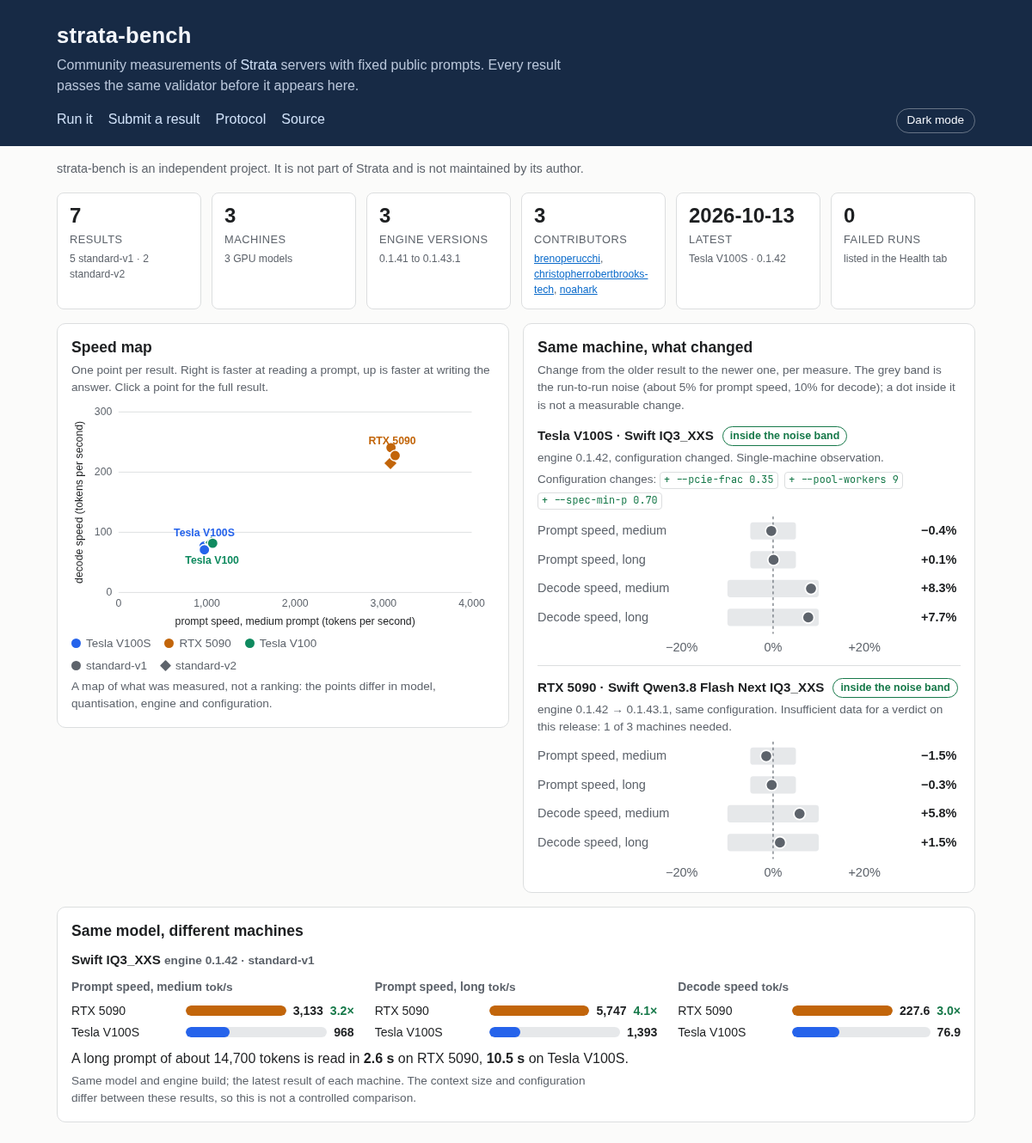
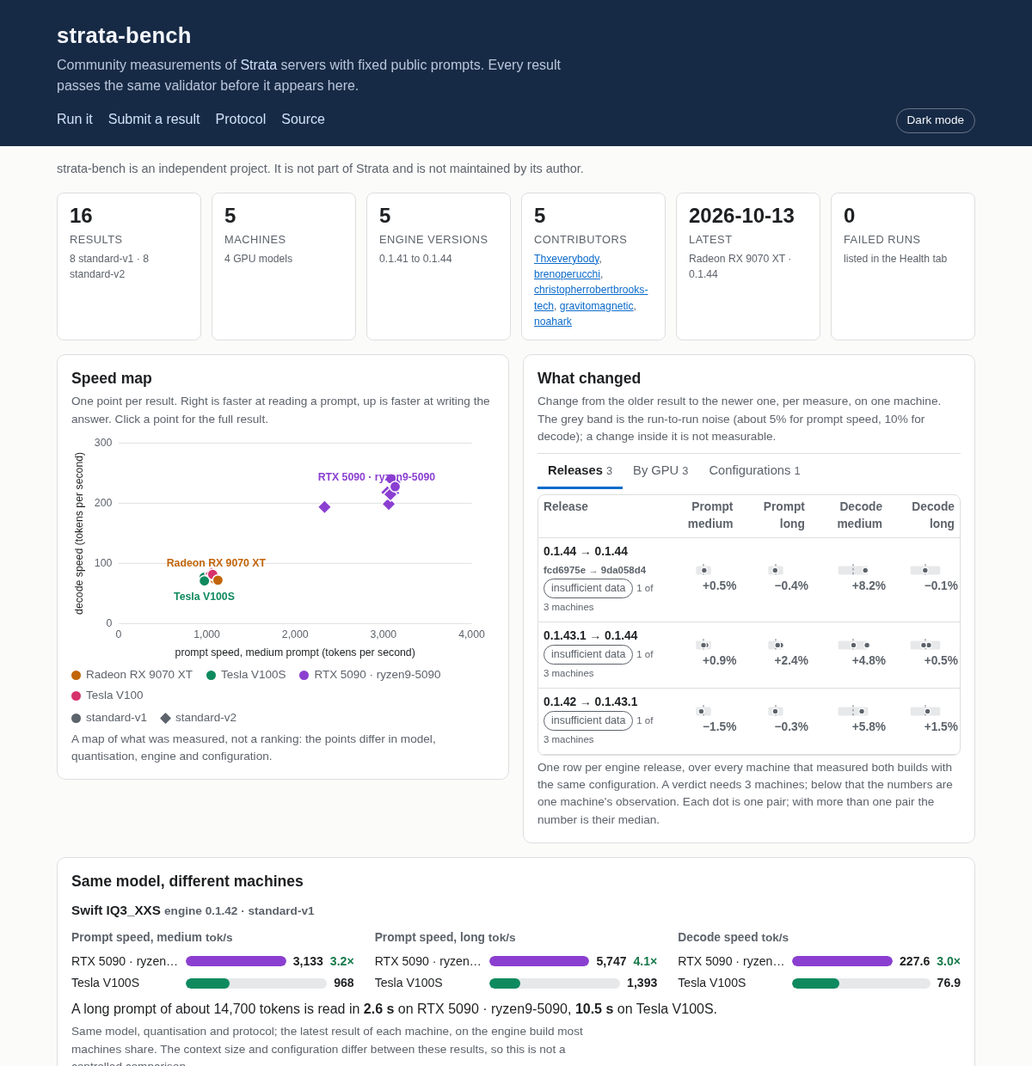
Overview: What changed as three tabs (Releases, By GPU, Configurations) that stay short as results grow
One row per engine release over every machine, a verdict only with three machines; each machine's comparisons in compact rows, folded after five; configuration-only pairs apart. A pair where the engine build and the configuration changed together is shown and flagged as not isolating either cause (this brings the RX 9070 XT in). Same model: first group open, others folded. README screenshots refreshed.

diff --git a/docs/overview.js b/docs/overview.js
@@ -79,47 +79,101 @@
       "<p class='hint'>A map of what was measured, not a ranking: the points differ in model, quantisation, engine and configuration.</p>";
   }
 
-  var DOMAIN = 20;                                           // the strip shows -20% to +20%; a larger change sits at the edge and its value is written out
-  function pairBlock(p, mc, support) {
-    var W = 440, rowH = 30, L = 0, x0 = 150, x1 = 340, H = p.deltas.length * rowH + 26;
-    var X = function (pct) { return x0 + (x1 - x0) * (Math.max(-DOMAIN, Math.min(DOMAIN, pct)) + DOMAIN) / (2 * DOMAIN); };
-    var g = "<line class='zero' x1='" + X(0) + "' x2='" + X(0) + "' y1='0' y2='" + (H - 24) + "'/>";
-    p.deltas.forEach(function (d, i) {
-      var y = i * rowH + 15;
-      g += "<text x='" + L + "' y='" + (y + 4) + "'>" + esc(d.label) + "</text>" +
-        "<rect class='band' x='" + X(-d.band) + "' y='" + (y - 9) + "' width='" + (X(d.band) - X(-d.band)) + "' height='18' rx='3'><title>noise band: ±" + d.band + "%</title></rect>" +
-        "<circle class='dot " + d.verdict + "' cx='" + X(d.pct) + "' cy='" + y + "' r='6'><title>" + esc(d.label) + ": " + fmt(d.from, 1) + " to " + fmt(d.to, 1) + " (" + signed(d.pct) + ")</title></circle>" +
-        "<text class='val " + d.verdict + "' x='" + (W - 4) + "' y='" + (y + 4) + "' text-anchor='end'>" + signed(d.pct) + "</text>";
-    });
-    [-DOMAIN, 0, DOMAIN].forEach(function (t) { g += "<text x='" + X(t) + "' y='" + (H - 6) + "' text-anchor='middle'>" + (t > 0 ? "+" : t < 0 ? "−" : "") + Math.abs(t) + "%</text>"; });
-    var m = mc[p.machine] || { label: "machine" }, a = p.a, b = p.b;
-    var tag = function (r) { return r.engine + (a.engine === b.engine && r.binary ? " [" + r.binary + "]" : ""); };      // the same version from two binaries needs the binary to be told apart
-    var what = p.kind === "build" ? "engine " + tag(a) + " → " + tag(b) + ", same configuration" : "engine " + tag(a) + ", configuration changed";
-    var n = support[I.buildOf(a) + " → " + I.buildOf(b)] || 0;
-    var note = p.kind === "build"
-      ? (n < I.MIN_MACHINES ? "Insufficient data for a verdict on this release: " + n + " of " + I.MIN_MACHINES + " machines needed. " : "")
-      : "Single-machine observation. ";
-    var val = function (v) { return v === true ? "" : " " + esc(v); };
-    var changes = p.args && p.args.length ? "<p class='args'>Configuration changes: " + p.args.map(function (c) {
+  var DOMAIN = 20;                                           // the strips show -20% to +20%; a larger change sits at the edge and its value is written out
+  var CAP = 5;                                               // rows shown before "Show N more"
+  var short = function (label) { return String(label).replace(" speed, ", " "); };
+  var proto = function (r) { return String(r.protocol || "").replace(/^standard-/, ""); };
+  // the version, and the binary when two builds share one version number
+  var tag = function (r, other) { return esc(r.engine) + (other && other.engine === r.engine && r.binary ? " <small>[" + esc(r.binary) + "]</small>" : ""); };
+  // "0.1.43.1 → 0.1.44"; two builds that share a version number are told apart on a second line by their binary
+  var arrow = function (p) {
+    var same = p.a.engine === p.b.engine && (p.a.binary || p.b.binary);
+    return "<span class='nw'>" + esc(p.a.engine) + " → " + esc(p.b.engine) + "</span>" + (same ? "<br><small>" + esc(p.a.binary || "?") + " → " + esc(p.b.binary || "?") + "</small>" : "");
+  };
+  var val = function (v) { return v === true ? "" : " " + esc(v); };
+
+  // The configuration changes between two results as small chips; the first three, and a count of the rest.
+  function argChips(args) {
+    if (!args || !args.length) return "";
+    var one = function (c) {
       return c.from === null ? "<code class='add'>+ " + esc(c.opt) + val(c.to) + "</code>" : c.to === null ? "<code class='del'>− " + esc(c.opt) + val(c.from) + "</code>" : "<code>" + esc(c.opt) + " " + esc(c.from === true ? "on" : c.from) + " → " + esc(c.to === true ? "on" : c.to) + "</code>";
-    }).join(" ") + "</p>" : "";
-    return "<div class='pair'><h3>" + esc(m.label) + " · " + esc(b.model || "") + " " + esc(b.quant || "") + " <span class='pill " + (p.moved ? "warnings" : "ok") + "'>" + esc(p.headline) + "</span></h3>" +
-      "<p class='hint'>" + esc(what) + ". " + esc(note) + "</p>" + changes +
-      "<svg class='viz' viewBox='0 0 " + W + " " + H + "' role='img' aria-label='Change in speed between two results of one machine'>" + g + "</svg></div>";
+    };
+    var rest = args.slice(3).map(function (c) { return c.opt; }).join(", ");
+    return "<span class='args'>" + args.slice(0, 3).map(one).join(" ") + (args.length > 3 ? " <span class='hint' title='" + esc(rest) + "'>+" + (args.length - 3) + " more</span>" : "") + "</span>";
   }
+
+  // A small strip: the grey band is the noise, one dot per measured change.
+  function strip(points, band) {
+    var W = 92, H = 18, X = function (pct) { return 4 + (W - 8) * (Math.max(-DOMAIN, Math.min(DOMAIN, pct)) + DOMAIN) / (2 * DOMAIN); };
+    var g = "<rect class='band' x='" + X(-band) + "' y='3' width='" + (X(band) - X(-band)) + "' height='12' rx='2'><title>noise band: ±" + band + "%</title></rect><line class='zero' x1='" + X(0) + "' x2='" + X(0) + "' y1='0' y2='" + H + "'/>";
+    points.forEach(function (q) { g += "<circle class='dot " + q.verdict + "' cx='" + X(q.pct) + "' cy='9' r='4'><title>" + esc(q.title) + "</title></circle>"; });
+    return "<svg class='viz mini' viewBox='0 0 " + W + " " + H + "' width='" + W + "' height='" + H + "' role='img' aria-label='Change in speed, noise band in grey'>" + g + "</svg>";
+  }
+
+  function releasesTab(list, mc) {
+    var rel = I.releases(list);
+    if (!rel.length) return "<p class='hint'>No release step yet. The same configuration measured on two engine builds of one machine appears here.</p>";
+    var head = "<tr><th>Release</th>" + I.METRICS.map(function (m) { return "<th>" + esc(short(m.label)) + "</th>"; }).join("") + "</tr>";
+    var row = function (r) {
+      var verdict = r.enough ? "<span class='pill " + (r.moved ? "warnings" : "ok") + "'>" + (r.moved ? r.moved + " of " + r.metrics.length + " measures moved" : "inside the noise band") + "</span>"
+        : "<span class='pill muted' title='A verdict needs " + I.MIN_MACHINES + " machines'>insufficient data</span> <small>" + r.machines + " of " + I.MIN_MACHINES + " machines</small>";
+      var cells = r.metrics.map(function (m) {
+        if (m.median === null) return "<td class='num'>–</td>";
+        var pts = m.points.map(function (q) { return { pct: q.pct, verdict: q.verdict, title: (mc[q.machine] || { label: "machine" }).label + " · " + (q.pair.b.quant || "") + ": " + signed(q.pct) }; });
+        return "<td class='num' title='" + (m.points.length > 1 ? "median of " + m.points.length + " pairs" : "one pair") + "'>" + strip(pts, m.band) + "<span class='val " + (r.enough ? m.verdict : "weak") + "'>" + signed(m.median) + "</span></td>";
+      }).join("");
+      return "<tr><td class='what'><b>" + arrow({ a: r.from, b: r.to }) + "</b><br>" + verdict + "</td>" + cells + "</tr>";
+    };
+    return "<div class='scroll'><table class='pairs'>" + head + rel.slice(0, CAP).map(row).join("") + "</table></div>" +
+      (rel.length > CAP ? "<details class='more'><summary>Show " + (rel.length - CAP) + " more</summary><div class='scroll'><table class='pairs'>" + head + rel.slice(CAP).map(row).join("") + "</table></div></details>" : "") +
+      "<p class='hint'>One row per engine release, over every machine that measured both builds with the same configuration. A verdict needs " + I.MIN_MACHINES + " machines; below that the numbers are one machine's observation. Each dot is one pair; with more than one pair the number is their median.</p>";
+  }
+
+  // One row per pair: what changed, then the change in each measure.
+  function pairRow(p, mc, withMachine) {
+    var what = p.kind === "config" ? "engine " + esc(p.a.engine) + " · configuration changed" : arrow(p);
+    var note = p.kind === "mixed" ? " <span class='pill warnings' title='The engine build and the configuration both changed, so these numbers do not say which of the two moved them.'>build and configuration</span>" : "";
+    var who = withMachine ? "<br><small>" + esc((mc[p.machine] || { label: "machine" }).label) + "</small>" : "";
+    var cells = I.METRICS.map(function (m) {
+      var d = p.deltas.filter(function (x) { return x.key === m.key; })[0];
+      return d ? "<td class='num'><span class='chip " + d.verdict + "' title='" + esc(d.label + ": " + fmt(d.from, 1) + " to " + fmt(d.to, 1) + " (noise band ±" + d.band + "%)") + "'>" + signed(d.pct) + "</span></td>" : "<td class='num'>–</td>";
+    }).join("");
+    return "<tr><td class='what'><b>" + what + "</b> <small>" + esc(p.b.quant || "") + " · " + esc(proto(p.b)) + "</small>" + note + who + (p.args.length ? "<br>" + argChips(p.args) : "") + "</td>" + cells + "</tr>";
+  }
+  function pairTable(list, mc, withMachine) {
+    var head = "<tr><th>Change</th>" + I.METRICS.map(function (m) { return "<th>" + esc(short(m.label)) + "</th>"; }).join("") + "</tr>";
+    var t = function (l) { return "<div class='scroll'><table class='pairs'>" + head + l.map(function (p) { return pairRow(p, mc, withMachine); }).join("") + "</table></div>"; };
+    return t(list.slice(0, CAP)) + (list.length > CAP ? "<details class='more'><summary>Show " + (list.length - CAP) + " more</summary>" + t(list.slice(CAP)) + "</details>" : "");
+  }
+  function gpuTab(list, mc) {
+    var by = {}, order = [];
+    list.forEach(function (p) { if (!by[p.machine]) { by[p.machine] = []; order.push(p.machine); } by[p.machine].push(p); });
+    order.sort(function (x, y) { return by[y].length - by[x].length || String((mc[x] || {}).label).localeCompare(String((mc[y] || {}).label)); });
+    var group = function (k, i) {
+      var m = mc[k] || { cls: "c0", label: "machine" };
+      return "<details class='gpu'" + (i === 0 ? " open" : "") + "><summary><i class='sw " + m.cls + "'></i> " + esc(m.label) + " <span class='hint'>" + by[k].length + (by[k].length === 1 ? " comparison" : " comparisons") + "</span></summary>" + pairTable(by[k], mc, false) + "</details>";
+    };
+    return order.slice(0, CAP).map(group).join("") + (order.length > CAP ? "<details class='more'><summary>Show " + (order.length - CAP) + " more machines</summary>" + order.slice(CAP).map(function (k, i) { return group(k, CAP + i); }).join("") + "</details>" : "");
+  }
+
   function pairs(rows) {
-    var list = I.pairs(rows), mc = machines(rows), support = I.transitionSupport(list);
-    var body = list.length
-      ? list.slice(0, 4).map(function (p) { return pairBlock(p, mc, support); }).join("")
-      : "<p class='hint'>No pair yet. Two results from one machine that differ only in the engine build, or only in the configuration, appear here.</p>";
-    return "<h2>Same machine, what changed</h2><p class='hint'>Change from the older result to the newer one, per measure. The grey band is the run-to-run noise (about 5% for prompt speed, 10% for decode); a dot inside it is not a measurable change.</p>" + body;
+    var list = I.pairs(rows), mc = machines(rows);
+    var head = "<h2>What changed</h2><p class='hint'>Change from the older result to the newer one, per measure, on one machine. The grey band is the run-to-run noise (about 5% for prompt speed, 10% for decode); a change inside it is not measurable.</p>";
+    if (!list.length) return head + "<p class='hint'>No pair yet. Two results from one machine that differ only in the engine build, or only in the configuration, appear here.</p>";
+    var rel = I.releases(list), cfg = list.filter(function (p) { return p.kind === "config"; }), gpus = {};
+    list.forEach(function (p) { gpus[p.machine] = 1; });
+    var tab = function (id, label, n, on) { return "<input type='radio' name='ov-tab' id='ov-tab-" + id + "'" + (on ? " checked" : "") + "><label for='ov-tab-" + id + "'>" + label + " <span class='count'>" + n + "</span></label>"; };
+    return head + "<div class='ptabs'>" + tab("rel", "Releases", rel.length, true) + tab("gpu", "By GPU", Object.keys(gpus).length, false) + tab("cfg", "Configurations", cfg.length, false) +
+      "<div class='pview v-rel'>" + releasesTab(list, mc) + "</div>" +
+      "<div class='pview v-gpu'>" + gpuTab(list, mc) + "</div>" +
+      "<div class='pview v-cfg'>" + (cfg.length ? pairTable(cfg, mc, true) + "<p class='hint'>Same engine build, only the configuration changed. A change in the numbers is not by itself proof that the setting caused it.</p>" : "<p class='hint'>No configuration pair yet. Two results of one machine on the same engine build with different settings appear here.</p>") + "</div></div>";
   }
 
   function sameModel(rows) {
     var list = I.sameModel(rows), mc = machines(rows);
     if (!list.length) return "<h2>Same model, different machines</h2><p class='hint'>Nothing to compare yet. Results for a model and quantisation that two machines both measured appear here. <a href='submit.html'>Submit a result</a> for a model that is already listed.</p>";
     var metrics = [["prefill_medium", "Prompt speed, medium", 0], ["prefill_long", "Prompt speed, long", 0], ["decode_medium", "Decode speed", 1]];
-    return "<h2>Same model, different machines</h2>" + list.slice(0, 2).map(function (g) {
+    var one = function (g) {
       var cols = metrics.map(function (m) {
         var vals = g.machines.map(function (x) { return x[m[0]]; }).filter(function (v) { return v !== null; });
         if (vals.length < 2) return "";
@@ -135,7 +189,8 @@
       return "<div class='same'><h3>" + esc(g.model) + " " + esc(g.quant) + " <span class='hint'>engine " + esc(g.engine) + " · " + esc(g.protocol) + "</span></h3><div class='grid3'>" + cols + "</div>" +
         (sec && g.long_tokens ? "<p>A long prompt of about " + fmt(g.long_tokens, 0) + " tokens is read in " + sec + ".</p>" : "") +
         "<p class='hint'>Same model, quantisation and protocol; the latest result of each machine, on the engine build most machines share.<span>" + diff + "</span></p></div>";
-    }).join("");
+    };
+    return "<h2>Same model, different machines</h2>" + one(list[0]) + (list.length > 1 ? "<details class='more'><summary>Show " + (list.length - 1) + " more</summary>" + list.slice(1, 8).map(one).join("") + "</details>" : "");
   }
 
   var api = { kpi: kpi, speedMap: speedMap, pairs: pairs, sameModel: sameModel, machines: machines };

diff --git a/docs/insights.js b/docs/insights.js
@@ -72,7 +72,7 @@
     var deltas = METRICS.map(function (m) { return delta(a, b, m); }).filter(Boolean);
     if (!deltas.length) return null;
     var moved = deltas.filter(function (d) { return d.verdict !== "same"; });
-    return { kind: kind, why: why, machine: key, a: a, b: b, deltas: deltas, moved: moved.length, args: kind === "config" ? argsDiff(a, b) : [],
+    return { kind: kind, why: why, machine: key, a: a, b: b, deltas: deltas, moved: moved.length, args: kind === "build" ? [] : argsDiff(a, b),
       headline: moved.length ? moved.length + " of " + deltas.length + " measures moved past the noise band" : "inside the noise band" };
   }
 
@@ -101,6 +101,22 @@
         if (p) out.push(p);
       }
     });
+
+    // Same machine and model, but the engine build and the configuration both changed: shown, flagged as not telling which of the two moved the numbers.
+    var built = {};
+    out.forEach(function (p) { if (p.kind === "build") built[keys[p.b.id] + "#" + kindOf(p.b) + "#" + buildOf(p.a) + ">" + buildOf(p.b)] = 1; });
+    var machineKind = group(function (r) { return [keys[r.id], kindOf(r)].join("#"); });
+    Object.keys(machineKind).forEach(function (k) {
+      var latest = {};
+      machineKind[k].forEach(function (r) { var b = buildOf(r); if (!latest[b] || byDate(latest[b], r) < 0) latest[b] = r; });
+      var builds = Object.keys(latest).sort(function (x, y) { return engineCmp(latest[x].engine, latest[y].engine) || byDate(latest[x], latest[y]); });
+      for (var i = 1; i < builds.length; i++) {
+        var a = latest[builds[i - 1]], b = latest[builds[i]];
+        if (a.config_id === b.config_id || built[keys[b.id] + "#" + kindOf(b) + "#" + builds[i - 1] + ">" + builds[i]]) continue;
+        var p = pairOf("mixed", a, b, keys[b.id], "engine build and configuration both changed");
+        if (p) out.push(p);
+      }
+    });
     return out.sort(function (p, q) { return -byDate(p.b, q.b); });
   }
 
@@ -113,6 +129,31 @@
     var out = {};
     Object.keys(t).forEach(function (k) { out[k] = Object.keys(t[k]).length; });
     return out;
+  }
+
+  // One row per engine release step (build A to build B), gathered over every machine that measured it: the answer to "did the release change the speed".
+  // Only the pairs that isolate the build count; the median of the changes is the release's number, and with fewer than MIN_MACHINES machines it stays an observation.
+  function releases(list) {
+    var t = {}, order = [];
+    list.filter(function (p) { return p.kind === "build"; }).forEach(function (p) {
+      var k = buildOf(p.a) + " → " + buildOf(p.b);
+      if (!t[k]) { t[k] = { key: k, from: p.a, to: p.b, pairs: [], machines: {} }; order.push(k); }
+      t[k].pairs.push(p); t[k].machines[p.machine] = 1;
+      if (byDate(t[k].to, p.b) < 0) t[k].to = p.b;
+    });
+    return order.map(function (k) {
+      var r = t[k], n = Object.keys(r.machines).length;
+      var metrics = METRICS.map(function (m) {
+        var points = [];
+        r.pairs.forEach(function (p) { var d = p.deltas.filter(function (x) { return x.key === m.key; })[0]; if (d) points.push({ pct: d.pct, verdict: d.verdict, machine: p.machine, pair: p }); });
+        if (!points.length) return { key: m.key, label: m.label, band: m.band, points: [], median: null, verdict: null };
+        var v = points.map(function (q) { return q.pct; }).sort(function (x, y) { return x - y; }), h = Math.floor(v.length / 2);
+        var median = Math.round((v.length % 2 ? v[h] : (v[h - 1] + v[h]) / 2) * 10) / 10;
+        return { key: m.key, label: m.label, band: m.band, points: points, median: median, verdict: Math.abs(median) <= m.band ? "same" : median > 0 ? "up" : "down" };
+      });
+      var moved = metrics.filter(function (m) { return m.verdict && m.verdict !== "same"; }).length;
+      return { key: k, from: r.from, to: r.to, machines: n, enough: n >= MIN_MACHINES, pairs: r.pairs.length, metrics: metrics, moved: moved };
+    }).sort(function (a, b) { return -byDate(a.to, b.to); });
   }
 
   // The same model and quantisation under one protocol, on different machines: the closest thing to a hardware comparison the data allows.
@@ -174,7 +215,7 @@
     };
   }
 
-  var api = { buildOf: buildOf, kindOf: kindOf, METRICS: METRICS, MIN_MACHINES: MIN_MACHINES, machineKeys: machineKeys, engineCmp: engineCmp, pairs: pairs, transitionSupport: transitionSupport, sameModel: sameModel, speedPoints: speedPoints, summary: summary };
+  var api = { buildOf: buildOf, kindOf: kindOf, METRICS: METRICS, MIN_MACHINES: MIN_MACHINES, machineKeys: machineKeys, engineCmp: engineCmp, pairs: pairs, transitionSupport: transitionSupport, releases: releases, sameModel: sameModel, speedPoints: speedPoints, summary: summary };
   root.StrataInsights = api;
   if (typeof module !== "undefined" && module.exports) module.exports = api;
 })(typeof window !== "undefined" ? window : this);

diff --git a/docs/style.css b/docs/style.css
@@ -148,3 +148,34 @@ table.board td.win { color: var(--good); font-weight: 700; }
 table.board td.tie { color: var(--muted); }
 table.board tfoot th, table.board tfoot td { border-top: 2px solid var(--line); font-weight: 700; }
 table.board td.total { font-size: 1.05rem; }
+
+/* "What changed": tabs without script (radio buttons), compact tables, collapsible groups */
+.ptabs { display: flex; flex-wrap: wrap; border-top: 1px solid var(--line); margin-top: 8px; }
+.ptabs > input { position: absolute; opacity: 0; pointer-events: none; }
+.ptabs > label { padding: 8px 12px; cursor: pointer; color: var(--muted); border-bottom: 3px solid transparent; font-size: .92rem; }
+.ptabs > input:checked + label { color: var(--fg); border-bottom-color: var(--accent); font-weight: 600; }
+.ptabs > input:focus-visible + label { outline: 2px solid var(--accent); outline-offset: -2px; }
+.ptabs .count { color: var(--muted); font-weight: 400; font-size: .8rem; }
+.ptabs .pview { display: none; width: 100%; order: 9; padding-top: 6px; }
+#ov-tab-rel:checked ~ .v-rel, #ov-tab-gpu:checked ~ .v-gpu, #ov-tab-cfg:checked ~ .v-cfg { display: block; }
+table.pairs { width: 100%; border-collapse: collapse; font-size: .86rem; }
+table.pairs th { text-align: right; font-weight: 600; color: var(--muted); padding: 4px 6px; border-bottom: 1px solid var(--line); white-space: nowrap; }
+table.pairs th:first-child { text-align: left; }
+table.pairs td { padding: 6px; border-bottom: 1px solid var(--line); vertical-align: middle; }
+table.pairs td.num { text-align: right; white-space: nowrap; font-variant-numeric: tabular-nums; }
+table.pairs td.what small { color: var(--muted); }
+table.pairs td.num small { color: var(--muted); font-size: .72rem; white-space: normal; }
+.chip { display: inline-block; min-width: 3.6em; padding: 1px 6px; border-radius: 6px; text-align: center; font-weight: 600; background: var(--band); color: var(--muted); }
+.chip.up { color: var(--good); } .chip.down { color: var(--bad); }
+.val.up { color: var(--good); } .val.down { color: var(--bad); } .val.weak { color: var(--muted); }
+table.pairs .val { display: block; font-weight: 600; }
+svg.viz.mini { display: block; width: 76px; height: auto; margin: 0 0 1px auto; font-size: 11px; }
+.pill.muted { color: var(--muted); }
+details.gpu { margin: 6px 0; border-bottom: 1px solid var(--line); }
+details.gpu > summary, details.more > summary { cursor: pointer; padding: 6px 0; font-weight: 600; }
+details.more > summary { font-weight: 400; color: var(--accent); }
+table.pairs .nw, .pill { white-space: nowrap; }
+table.pairs th { white-space: normal; }
+table.pairs td.what { min-width: 8.5em; }
+table.pairs td.num { padding-left: 2px; padding-right: 2px; }
+details.gpu > summary { color: var(--fg); }

diff --git a/tests/test_overview.py b/tests/test_overview.py
@@ -99,10 +99,11 @@ class Insights(unittest.TestCase):
     def test_two_binaries_with_one_version_number_are_two_builds_not_a_config_change(self):
         official = row("a", engine="0.1.43.1", binary="aa690ae6", config_id="c1", protocol="standard-v2")
         fork = row("b", engine="0.1.43.1", binary="dfc35851", config_id="c2", protocol="standard-v2", date="2026-10-12T10:00:00-03:00")
-        self.assertEqual(self.call("I.pairs(rows)", [official, fork]), [])           # different binary and different config: nothing says which one moved the numbers
+        got = self.call("I.pairs(rows).map(p => [p.kind, p.moved >= 0])", [official, fork])
+        self.assertEqual(got, [["mixed", True]])                                       # different binary and different config: shown, but flagged as not isolating either cause
         same_cfg = row("c", engine="0.1.43.1", binary="dfc35851", config_id="c1", protocol="standard-v2", date="2026-10-12T10:00:00-03:00")
         got = self.call("I.pairs(rows).map(p => [p.kind, p.a.binary, p.b.binary])", [official, same_cfg])
-        self.assertEqual(got, [["build", "aa690ae6", "dfc35851"]])                   # same config, other binary: a build pair
+        self.assertEqual(got, [["build", "aa690ae6", "dfc35851"]])                   # same config, other binary: a build pair, and no mixed pair beside it
 
     def test_the_same_model_on_two_machines_is_matched_by_family_even_when_the_name_differs(self):
         a = row("a", model_full="Swift", machine_id="m1")
@@ -136,6 +137,23 @@ class Insights(unittest.TestCase):
         other = self.call("['Coder', 'Llama 3 8B', 'Llama 3 70B'].map(n => I.kindOf({model_full: n, quant: 'Q', protocol: 'p'}))", [])
         self.assertEqual(len(set(other + fam[:1])), 4)                                                    # a size in the main name is a different model
 
+    def test_a_build_and_a_config_that_changed_together_is_a_mixed_pair_and_never_a_release(self):
+        a = row("a", engine="0.1.43", config_id="c1", n_ctx=131072, args=["--max-context", "131072"])
+        b = row("b", engine="0.1.44", config_id="c2", n_ctx=262144, args=["--max-context", "262144"], date="2026-10-12T10:00:00-03:00")
+        got = self.call("I.pairs(rows).map(p => [p.kind, p.args])", [a, b])
+        self.assertEqual(got, [["mixed", [{"opt": "--max-context", "from": "131072", "to": "262144"}]]])
+        self.assertEqual(self.call("I.releases(I.pairs(rows))", [a, b]), [])           # only pairs that isolate the build count toward a release
+
+    def test_a_release_gathers_its_pairs_over_machines_and_is_a_verdict_only_with_enough_of_them(self):
+        rows = []
+        for i in range(3):
+            rows.append(row(f"a{i}", machine_id=f"m{i}", cpu=f"cpu{i}"))
+            rows.append(scaled(dict(id=f"b{i}", machine_id=f"m{i}", cpu=f"cpu{i}", engine="0.1.43", date="2026-10-12T10:00:00-03:00"), p=1.20))
+        rel = self.call("I.releases(I.pairs(rows)).map(r => [r.key, r.machines, r.enough, r.moved, r.metrics.map(m => m.median), r.metrics.map(m => m.verdict)])", rows)
+        self.assertEqual(rel, [["0.1.42 → 0.1.43", 3, True, 2, [20.0, 20.0, 0.0, 0.0], ["up", "up", "same", "same"]]])
+        few = self.call("I.releases(I.pairs(rows)).map(r => [r.machines, r.enough])", rows[:2])
+        self.assertEqual(few, [[1, False]])
+
     def test_the_summary_counts_machines_and_contributors(self):
         rows = [row("a"), row("b", by="other", machine_id="m2", cpu="x", date="2026-10-12T10:00:00-03:00", engine="0.1.43"), row("c", status="failed", by=None)]
         s = self.call("I.summary(rows)", rows)
@@ -160,7 +178,9 @@ class OverviewHtml(unittest.TestCase):
     def test_the_overview_draws_its_panels_from_real_looking_rows(self):
         out = self.render(self.rows())
         self.assertIn("<svg", out["ov-map"])
-        self.assertIn("Same machine, what changed", out["ov-pairs"])
+        self.assertIn("What changed", out["ov-pairs"])
+        self.assertIn("Releases", out["ov-pairs"])
+        self.assertIn("By GPU", out["ov-pairs"])
         self.assertIn("Same model, different machines", out["ov-same"])
         self.assertIn("RTX 5090", out["ov-map"])
         self.assertIn("results", out["cards"])
@@ -183,6 +203,20 @@ class OverviewHtml(unittest.TestCase):
         out = self.render([row("a")])
         self.assertIn("No pair yet", out["ov-pairs"])
         self.assertIn("Nothing to compare yet", out["ov-same"])
+
+    def test_what_changed_has_three_tabs_that_need_no_script_and_folds_long_lists(self):
+        rows = [row("a0")]
+        for i in range(1, 8):                                                        # seven machines, each with a new build: more rows than the cap
+            rows.append(row(f"b{i}", machine_id=f"m{i}", cpu=f"cpu{i}", engine="0.1.40", date="2026-10-10T10:00:00-03:00"))
+            rows.append(row(f"c{i}", machine_id=f"m{i}", cpu=f"cpu{i}", engine="0.1.43", date="2026-10-12T10:00:00-03:00"))
+        html = self.render(rows)["ov-pairs"]
+        for tab in ("ov-tab-rel", "ov-tab-gpu", "ov-tab-cfg"):
+            self.assertIn(f"type='radio' name='ov-tab' id='{tab}'", html)
+        self.assertEqual(html.count("<script"), 0)
+        self.assertIn("<details class='gpu' open>", html)                            # only the first group is open
+        self.assertEqual(html.count("<details class='gpu'"), 7)
+        self.assertIn("Show 2 more machines", html)                                  # seven machines: five shown, two folded
+        self.assertIn("inside the noise band", html)
 
     def test_the_page_loads_the_insight_modules_before_the_app(self):
         html = (ROOT / "docs" / "index.html").read_text()

diff --git a/README.md b/README.md
@@ -7,7 +7,7 @@ Community measurements of [Strata](https://github.com/Niko1221/Strata) servers w
   <a href="https://brenoperucchi.github.io/strata-bench/">
     <picture>
       <source media="(prefers-color-scheme: dark)" srcset="docs/img/dashboard-dark.png">
-      <img src="docs/img/dashboard.png" alt="The strata-bench dashboard: a summary strip, a speed map of every result, the change between two results of the same machine against a noise band, and the same model on an RTX 5090 and a Tesla V100S" width="900">
+      <img src="docs/img/dashboard.png" alt="The strata-bench dashboard: a summary strip, a speed map of every result, what changed between engine releases, drawn against a noise band, and the same model on an RTX 5090 and a Tesla V100S" width="900">
     </picture>
   </a>
 </p>
@@ -18,7 +18,7 @@ strata-bench is an independent project. It is not part of Strata and is not main
 
 - A runner that measures a Strata server you already run and writes one `result.json` (schema `strata-bench/v1`, or `strata-bench/v2` with `--protocol standard-v2`) per configuration.
 - A validator that is the public-export gate: it accepts only results of the public protocol and refuses anything that looks like a local path, a private address or a secret.
-- A dashboard with an overview and two views. The overview opens with a summary strip, a speed map (one point per result), what changed between two results of the same machine (a new engine build, or a changed configuration with the arguments that differ) drawn against the run-to-run noise band, and the same model on different machines. It says "insufficient data" instead of a verdict until three machines back a release. Performance lists every result with prompt and decode speeds side by side for the same model and config. Tick two or three results and Compare opens them side by side, with a scoreboard of who is in front on more measures: only measures present in every selected result count, a lead inside the run-to-run noise band is a tie, and it says in words that this counts measures and does not show one setup is better overall or why. Health lists the catastrophic failures that runs recorded: crash, out of memory, degenerate output, hang, server error.
+- A dashboard with an overview and two views. The overview opens with a summary strip, a speed map (one point per result), a "What changed" panel with three tabs (Releases: one row per engine release over every machine, By GPU: each machine's comparisons in compact rows, Configurations: the arguments that differ), drawn against the run-to-run noise band, and the same model on different machines. The panel keeps its height as results grow: groups fold and long lists stop at five rows. It says "insufficient data" instead of a verdict until three machines back a release, and a pair where the build and the configuration changed together is shown but flagged, since it does not say which one moved the numbers. Performance lists every result with prompt and decode speeds side by side for the same model and config. Tick two or three results and Compare opens them side by side, with a scoreboard of who is in front on more measures: only measures present in every selected result count, a lead inside the run-to-run noise band is a tie, and it says in words that this counts measures and does not show one setup is better overall or why. Health lists the catastrophic failures that runs recorded: crash, out of memory, degenerate output, hang, server error.
 
 ## Run it
 
